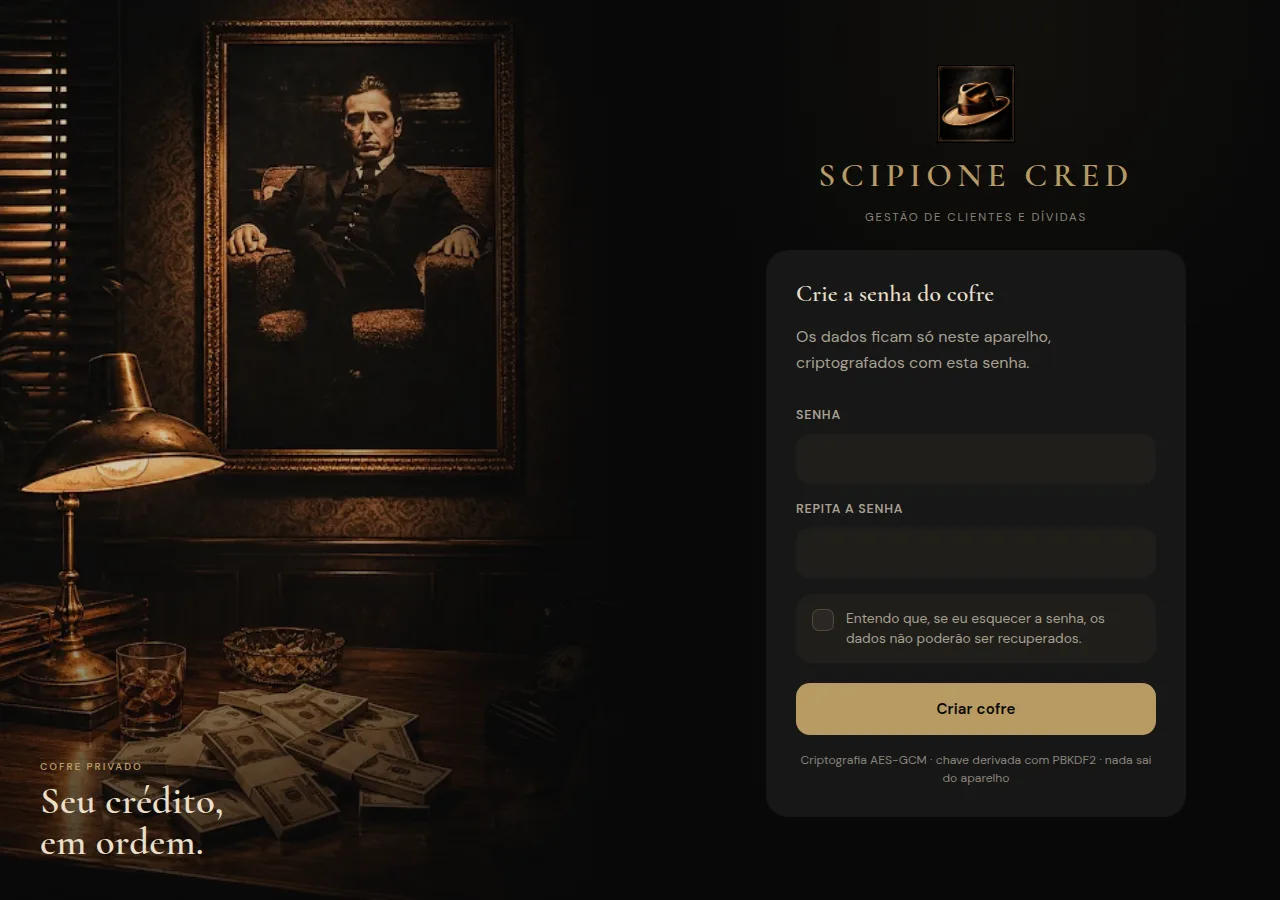
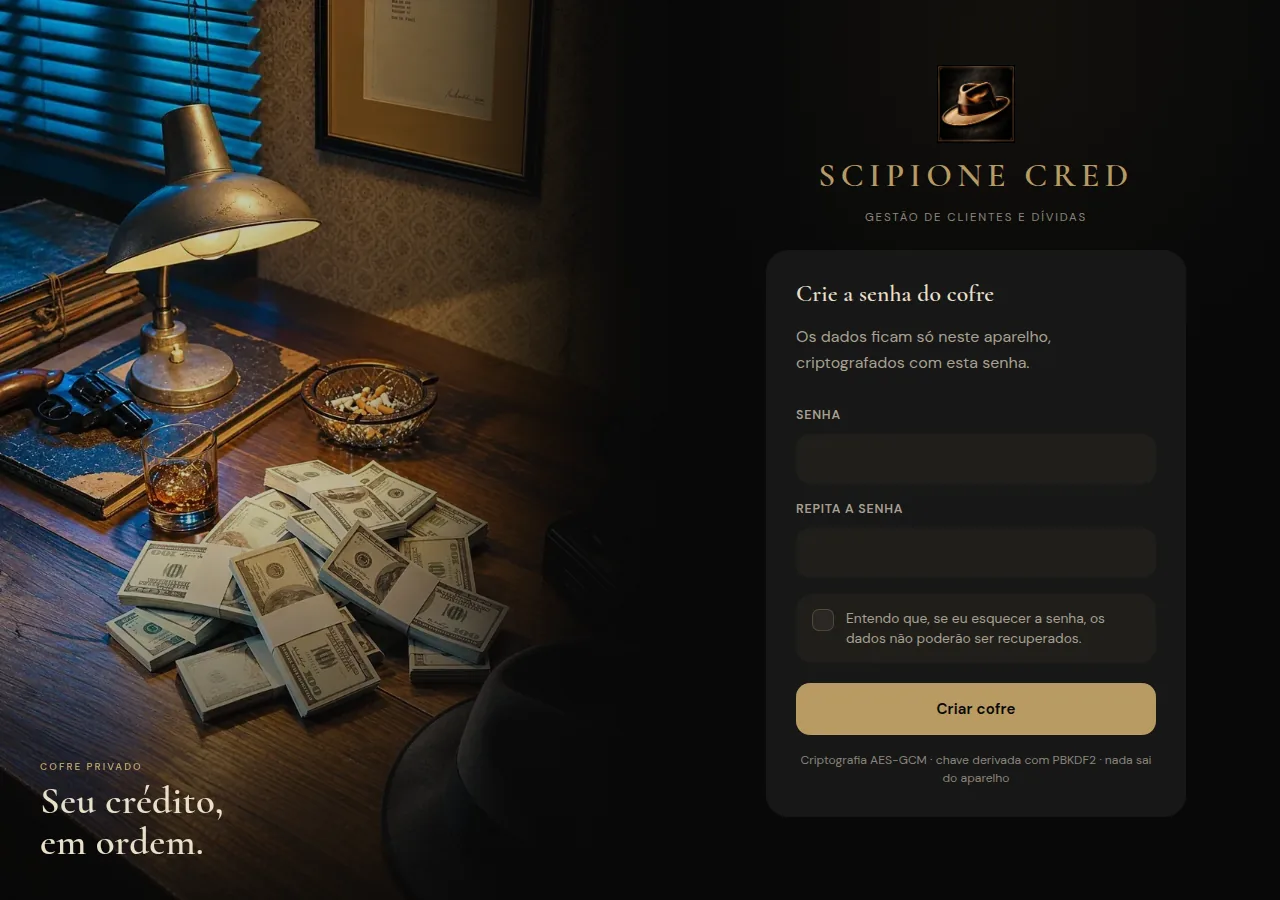
Refresh README and UI screenshots

Changed region(s): [[0.0, 0.0, 0.4375, 0.9644]]

diff --git a/README.md b/README.md
@@ -1,19 +1,19 @@
 <p align="center">
-  <img src="assets/icons/icon-512.png" alt="SCIPIONE CRED" width="136">
+  <img src="assets/icons/icon-512.png" alt="SCIPIONE CRED" width="128">
 </p>
 
 <h1 align="center">SCIPIONE CRED</h1>
 
 <p align="center">
   <strong>Gestão de clientes e dívidas, offline e criptografada.</strong><br>
-  Um cofre local para organizar crédito, vencimentos e histórico — sem backend, sem conta e sem enviar dados para servidores.
+  Um cofre local para organizar crédito, vencimentos, documentos e histórico — sem backend, sem conta e sem enviar dados para servidores.
 </p>
 
 <p align="center">
-  <img alt="PWA instalável" src="https://img.shields.io/badge/PWA-instal%C3%A1vel-C7AA72?style=flat-square&labelColor=12110F">
-  <img alt="Offline first" src="https://img.shields.io/badge/offline--first-C7AA72?style=flat-square&labelColor=12110F">
-  <img alt="AES-GCM 256" src="https://img.shields.io/badge/AES--GCM-256-C7AA72?style=flat-square&labelColor=12110F">
-  <img alt="Sem backend" src="https://img.shields.io/badge/sem--backend-C7AA72?style=flat-square&labelColor=12110F">
+  <img alt="PWA instalável" src="https://img.shields.io/badge/PWA-instal%C3%A1vel-B89A62?style=flat-square&labelColor=080808">
+  <img alt="Offline first" src="https://img.shields.io/badge/offline--first-B89A62?style=flat-square&labelColor=080808">
+  <img alt="AES-GCM 256" src="https://img.shields.io/badge/AES--GCM-256-B89A62?style=flat-square&labelColor=080808">
+  <img alt="Responsivo" src="https://img.shields.io/badge/responsivo-mobile%20%7C%20tablet%20%7C%20desktop-B89A62?style=flat-square&labelColor=080808">
 </p>
 
 ---
@@ -24,27 +24,84 @@ O **SCIPIONE CRED** é um aplicativo web progressivo (PWA) para gestão de clien
 
 Foi pensado para uso pessoal e profissional em cenários que exigem discrição: os dados permanecem no aparelho, o aplicativo funciona offline e cada instalação tem seu próprio cofre.
 
+## Capturas
+
+> Os nomes, documentos e valores exibidos nas capturas são dados fictícios de demonstração.
+
+### Login
+
+<p align="center">
+  <img src="docs/screenshots/login-desktop.webp" alt="Tela de login do SCIPIONE CRED" width="920"><br>
+  <sub>Login com duas cenas do escritório que se alternam automaticamente.</sub>
+</p>
+
+<p align="center">
+  <img src="docs/screenshots/login-mobile.webp" alt="Login do SCIPIONE CRED no celular" width="260"><br>
+  <sub>Versão mobile com a mesma identidade visual.</sub>
+</p>
+
+### Desktop
+
+<p align="center">
+  <img src="docs/screenshots/dashboard-desktop.webp" alt="Painel do SCIPIONE CRED" width="920"><br>
+  <sub>Painel com saldo total, juros mensais, clientes, vencimentos e atividade recente.</sub>
+</p>
+
+<table align="center">
+  <tr>
+    <td width="50%"><img src="docs/screenshots/clients-desktop.webp" alt="Lista de clientes" width="440"><br><sub>Clientes com busca, filtros e foto.</sub></td>
+    <td width="50%"><img src="docs/screenshots/debts-desktop.webp" alt="Página de dívidas" width="440"><br><sub>Dívidas, filtros e situação de vencimento.</sub></td>
+  </tr>
+  <tr>
+    <td width="50%"><img src="docs/screenshots/profile-desktop.webp" alt="Perfil do cliente" width="440"><br><sub>Perfil com dados e dívidas.</sub></td>
+    <td width="50%"><img src="docs/screenshots/settings-desktop.webp" alt="Tela de configurações" width="440"><br><sub>Sistema, segurança, instalação e vencimentos.</sub></td>
+  </tr>
+  <tr>
+    <td width="50%"><img src="docs/screenshots/reports-desktop.webp" alt="Relatório de dívidas" width="440"><br><sub>Relatório mensal pronto para impressão.</sub></td>
+    <td width="50%"><img src="docs/screenshots/backup-desktop.webp" alt="Backup e restauração" width="440"><br><sub>Backup, restauração e verificação de integridade.</sub></td>
+  </tr>
+</table>
+
+### Mobile
+
+<table align="center">
+  <tr>
+    <td><img src="docs/screenshots/dashboard-mobile.webp" alt="Painel no celular" width="180"><br><sub>Painel</sub></td>
+    <td><img src="docs/screenshots/clients-mobile.webp" alt="Clientes no celular" width="180"><br><sub>Clientes</sub></td>
+    <td><img src="docs/screenshots/profile-mobile.webp" alt="Perfil no celular" width="180"><br><sub>Perfil</sub></td>
+  </tr>
+  <tr>
+    <td><img src="docs/screenshots/debts-mobile.webp" alt="Dívidas no celular" width="180"><br><sub>Dívidas</sub></td>
+    <td><img src="docs/screenshots/settings-mobile.webp" alt="Configurações no celular" width="180"><br><sub>Configurações</sub></td>
+    <td></td>
+  </tr>
+</table>
+
 ## Recursos
 
 ### Clientes
 
 - Cadastro de pessoa física e jurídica, com validação e máscara de CPF/CNPJ.
 - Dados de contato, endereço, foto e documentos anexos.
-- Busca, ordenação e filtros por taxa.
-- Perfil com resumo de dívidas, documentos e histórico.
+- Foto do cliente com recorte automático; iniciais são usadas quando não há imagem.
+- Busca, ordenação e filtros por taxa de juros.
+- Perfil com dados, dívidas, documentos e histórico, nessa ordem.
+- Ajuste de juros em lote a partir da lista de clientes.
 
 ### Dívidas
 
 - Valor principal, taxa mensal, data de registro, vencimento e observações.
 - Cálculo de juros simples em centavos, com aritmética inteira (`BigInt`).
-- Indicadores de dívidas vencidas e a vencer.
+- Indicadores de dívidas vencidas e prestes a vencer.
 - Ajuste de taxa em lote com pré-visualização antes de aplicar.
+- Janela de vencimento configurável na tela de Configurações.
 
 ### Painel e relatórios
 
 - Saldo total de dívidas, juros mensais, clientes e vencimentos.
 - Últimos clientes e atividades recentes.
-- Relatório mensal para impressão em A4, em retrato ou paisagem.
+- Relatório mensal ou diário para impressão em A4, em retrato ou paisagem.
+- Coluna de vencimento em cada dívida do relatório.
 - Exportação para Excel (`.xlsx`) sem dependência de biblioteca de planilhas.
 
 ### Segurança e backup
@@ -56,41 +113,30 @@ Foi pensado para uso pessoal e profissional em cenários que exigem discrição:
 - Backup em ZIP, com criptografia opcional e verificação de integridade por SHA-256.
 - Restauração com modos **mesclar** ou **substituir tudo**.
 
+### Configurações
+
+- Tela centralizada para os cards **Sistema**, **Segurança**, **Instalação** e **Vencimentos**.
+- No celular, acesso pelo ícone de engrenagem no canto superior direito, ao lado do bloqueio.
+- No tablet e no desktop, acesso pelo item **Configurações** no rodapé do menu lateral.
+- Inclui bloqueio automático, teste de gravação e leitura criptografada, instalação do PWA e definição da janela de vencimentos.
+
 ### Experiência
 
 - PWA instalável no celular e no desktop.
 - Funciona offline depois do primeiro carregamento.
 - Layout responsivo para celular, tablet e desktop.
+- Duas cenas de login que se alternam automaticamente com crossfade suave.
 - Navegação por teclado, foco visível, alvos de toque e respeito a `prefers-reduced-motion`.
+- Barras de rolagem ocultas, mantendo a rolagem por toque, roda e teclado.
+- Áreas de upload pontilhadas, com ícone central e texto simples.
+- Transições leves entre telas e indicadores de carregamento nas ações assíncronas.
 
 ### Identidade visual
+
 - **Cores:** preto absoluto `#080808`, grafite `#171717`, dourado envelhecido `#B89A62`, marfim `#E8DFC9` e bronze escuro `#34302A`.
 - **Tipografia:** Cormorant Garamond no logotipo, títulos e elementos institucionais; DM Sans em menus, tabelas, formulários e informações operacionais.
 - **Fontes locais:** os arquivos ficam em `assets/fonts`, são carregados pelo próprio app e entram no cache offline do service worker.
 - **Direção:** interface escura, dourado moderado, ícones minimalistas, sem divisórias decorativas e com animações discretas.
-
-## Interface
-
-<p align="center">
-  <img src="docs/screenshots/dashboard-desktop.webp" alt="Painel do SCIPIONE CRED" width="920">
-</p>
-
-<p align="center"><sub>Painel com indicadores, vencimentos e atividade recente.</sub></p>
-
-<p align="center">
-  <img src="docs/screenshots/login-desktop.webp" alt="Tela de login do SCIPIONE CRED" width="820">
-</p>
-
-<p align="center"><sub>Login com cena do escritório e identidade visual do cofre.</sub></p>
-
-<details>
-<summary>Ver a versão mobile</summary>
-
-<p align="center">
-  <img src="docs/screenshots/login-mobile.webp" alt="Login no celular" width="360">
-</p>
-
-</details>
 
 ## Stack
 
@@ -100,7 +146,8 @@ Foi pensado para uso pessoal e profissional em cenários que exigem discrição:
 | Dados | IndexedDB |
 | Criptografia | Web Crypto API — PBKDF2-SHA256 e AES-GCM 256 |
 | PWA | Service Worker e Web App Manifest |
-| Planilhas e backup | Geração própria de XLSX e ZIP com `fflate` |
+| Relatórios e backup | Geração própria de XLSX e ZIP com `fflate` |
+| Testes | Node.js, sem dependências externas |
 | Build | Nenhum — site estático |
 | Deploy | Vercel ou GitHub Pages |
 
@@ -124,14 +171,27 @@ Foi pensado para uso pessoal e profissional em cenários que exigem discrição:
 │   ├── security/
 │   ├── services/
 │   ├── ui/
+│   │   ├── shell.js
+│   │   ├── dashboard.js
+│   │   ├── clients.js
+│   │   ├── clientlist.js
+│   │   ├── debts.js
+│   │   ├── debtspage.js
+│   │   ├── tools.js
+│   │   ├── settings.js
+│   │   ├── avatar.js
+│   │   ├── kit.js
+│   │   └── icons.js
 │   ├── main.js
 │   └── pwa.js
 ├── assets/
+│   ├── fonts/
 │   ├── icons/
 │   └── img/
 ├── tests/
 ├── vendor/
 └── docs/
+    └── screenshots/
 ```
 
 ## Como rodar
@@ -218,7 +278,7 @@ Os testes usam apenas Node.js, sem dependências externas:
 for t in money validators crypto stage4 backup; do node tests/$t.test.mjs; done
 ```
 
-Eles cobrem aritmética monetária, validadores de CPF/CNPJ, criptografia do cofre, persistência e backup/restauração. A interface também foi validada com um smoke test de ponta a ponta cobrindo clientes, documentos, dívidas, juros em lote, Excel, backup, bloqueio e desbloqueio.
+Eles cobrem aritmética monetária, validadores de CPF/CNPJ, criptografia do cofre, persistência e backup/restauração. A interface também é validada com um smoke test de ponta a ponta cobrindo clientes, documentos, dívidas, juros em lote, Excel, backup, bloqueio e desbloqueio.
 
 ## Compatibilidade
 

diff --git a/docs/README.md b/docs/README.md
@@ -1,14 +1,14 @@
-# SCIPIONE CRED, Etapa 1
+# SCIPIONE CRED — documentação técnica
 Executar: `python3 -m http.server 8080` (ou `npx serve`) nesta pasta e abrir http://localhost:8080. Para celular/instalação, publique em HTTPS (service worker e Web Crypto exigem contexto seguro).
 Teste da criptografia: `node tests/crypto.test.mjs`.
 
-Módulos: `db/idb.js` (IndexedDB versionado, gravação confirmada em oncomplete) · `security/crypto.js` (PBKDF2 600 mil + AES-GCM, DEK embrulhada) · `security/auth.js` (cadastro, login, sessão persistente na mesma aba, bloqueio, inatividade, atraso após 5 erros) · `pwa.js` · `sw.js` (cache offline) · `main.js` (telas).
+Módulos: `db/idb.js` (IndexedDB versionado, gravação confirmada em oncomplete) · `security/crypto.js` (PBKDF2 600 mil + AES-GCM, DEK embrulhada) · `security/auth.js` (cadastro, login, sessão persistente na mesma aba, bloqueio, inatividade, atraso após 5 erros) · `pwa.js` · `sw.js` (cache offline) · `main.js` (telas) · `ui/settings.js` (configurações).
 Identidade: tokens em `css/app.css` (fundo `#080808`, cards `#171717`, dourado `#B89A62`, marfim `#E8DFC9`, bronze `#34302A`); Cormorant Garamond e DM Sans em `assets/fonts`, com fallback local e cache offline.
 Safari/iOS: campos `date` e `month` recebem `min-width:0`, `max-width:100%` e reset de aparência nativa para não estourarem os cards; o seletor nativo continua abrindo ao toque.
 
-Limites: a criptografia protege dados em repouso; não protege contra aparelho comprometido, malware ou XSS com o app desbloqueado. O atraso após tentativas erradas é local e contornável: a defesa real é o custo do PBKDF2 e uma senha forte. Sem recuperação de senha. No iOS, o Safari pode apagar dados de sites não instalados após ~7 dias sem uso: instale na Tela de Início e faça backups (Etapa 5).
+Limites: a criptografia protege dados em repouso; não protege contra aparelho comprometido, malware ou XSS com o app desbloqueado. O atraso após tentativas erradas é local e contornável: a defesa real é o custo do PBKDF2 e uma senha forte. Sem recuperação de senha. No iOS, o Safari pode apagar dados de sites não instalados após ~7 dias sem uso: instale na Tela de Início e faça backups regulares.
 
-## Etapas 2 a 5 (resumo técnico)
+## Núcleo funcional (resumo técnico)
 - **Dados:** registros cifrados com AES-GCM (id, createdAt e clientId em claro para índices); `db.batch` grava várias operações numa transação e avisa as telas (`data-changed`). Dinheiro em centavos, taxa em centésimos de ponto percentual, juros simples = principal × taxa / 100 (BigInt, arredondamento ao centavo).
 - **Excel:** `src/export/xlsx.js` gera o .xlsx (XML + ZIP via fflate), sem biblioteca de planilha. Abas: Dívidas (registradas no período) e Movimentações (histórico no período).
 - **Relatório A4:** HTML com CSS de impressão (`@page` retrato/paisagem). Pré-visualização na tela e botão Imprimir.
@@ -17,16 +17,18 @@ Limites: a criptografia protege dados em repouso; não protege contra aparelho c
 - **Instalação:** servir a pasta por HTTPS (ou localhost) e instalar pelo navegador (iPhone: Safari › Compartilhar › Adicionar à Tela de Início). Ao criar arquivos novos, incluí-los em `FILES` no `sw.js` e incrementar `V`.
 - **Testes:** `for t in money validators crypto stage4 backup; do node tests/$t.test.mjs; done`.
 
-## Etapa 6 (UI/UX)
+## Interface e experiência (UI/UX)
 Camada exclusivamente visual, sem alteração de regras de negócio, banco ou fluxos:
 - **Estilos:** `css/app.css` (tokens de cor e tipografia, base, relatório e impressão) e `css/ui.css` (componentes, grades, breakpoints, movimento reduzido).
 - **Componentes compartilhados:** `src/ui/kit.js` (iniciais, datas, plural, seletor de arquivo em pt-BR) e `src/ui/icons.js` (ícones SVG de traço fino, 1,6 px).
-- **Navegação:** `src/ui/shell.js` monta barra inferior até 719 px, rail de 96 px de 720 a 1099 px e menu lateral a partir de 1100 px. Título, ações de bloqueio/saída e navegação usam os mesmos componentes nas três faixas.
+- **Navegação:** `src/ui/shell.js` monta barra inferior até 719 px, rail de 96 px de 720 a 1099 px e menu lateral a partir de 1100 px. Título, ações de bloqueio/saída e navegação usam os mesmos componentes nas três faixas. No celular, Configurações aparece como ícone no topo, ao lado do bloqueio; no tablet e no desktop, como item no rodapé do menu.
+- **Configurações:** `src/ui/settings.js` reúne Sistema, Segurança, Instalação e Vencimentos, com os mesmos handlers de bloqueio automático, teste de integridade, instalação e janela de vencimento.
+- **Perfil do cliente:** dados, dívidas, documentos e histórico, nessa ordem; o card de documentos fica abaixo do card de dívidas.
 - **Responsivo:** conteúdo em coluna única no celular; métricas em uma coluna no celular e três colunas a partir de 720 px; listas em 2 colunas e cartões lado a lado a partir de 1000 px; formulários em 2 colunas a partir de 720 px.
 - **Rolagem:** barras de rolagem ocultas em todos os tamanhos de tela; rolagem preservada por toque, roda e teclado.
 - **Feedback:** transições suaves entre telas, spinners nas ações assíncronas e estado de carregamento acessível (`aria-busy`).
 - **Uploads:** áreas pontilhadas com ícone central e texto simples, adaptadas a celular, tablet e desktop.
-- **Login:** cena do escritório como banner no celular e painel lateral dividido a partir de 760 px, com sobreposição escura e degradê de transição para o painel, mantendo a leitura.
+- **Login:** duas cenas do escritório alternam automaticamente em crossfade (ciclo de 18 s), como banner no celular e painel lateral dividido a partir de 760 px, com sobreposição escura e degradê de transição para o painel. Com `prefers-reduced-motion`, a primeira cena fica estática.
 - **Marca:** imagem original do chapéu inteira e sem recorte, com a moldura dourada original, usada na navegação, no login e nos ícones do aplicativo (192, 512, maskable e apple-touch), sem contorno adicional, sombra ou cantos arredondados.
 - **Estética:** sem bordas, linhas divisórias ou separadores; hierarquia por espaçamento, superfícies e contraste; botões e campos sem contorno em repouso.
 - **Acessibilidade:** link "Ir para o conteúdo", foco visível (halo suave em campos e anel em botões), alvos de toque >= 44 px, `aria-current` na navegação, rótulos associados, `role="alert"`/`status` nas mensagens e `prefers-reduced-motion` respeitado.
